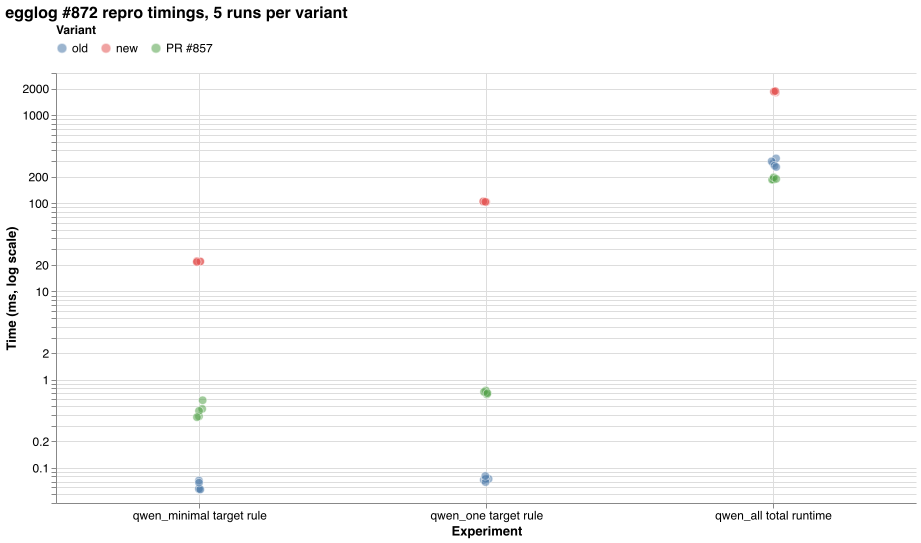
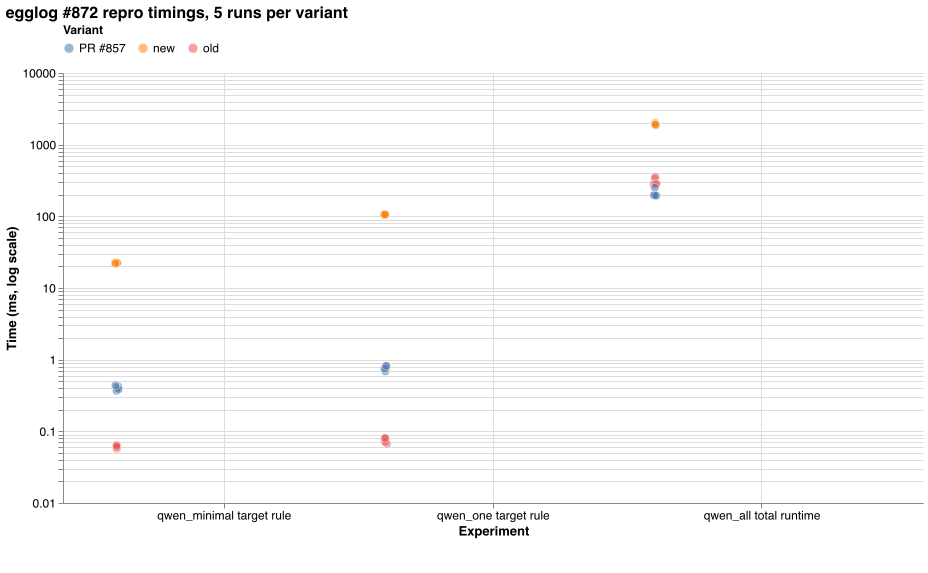
Use scripts timing scatter spec

Changed region(s): [[0.0, 0.0, 1.0, 1.0], [0.152, 0.9429, 0.304, 0.9724]]

diff --git a/README.md b/README.md
@@ -82,10 +82,9 @@ To regenerate the five-run timing scatter plot:
 scripts/render_timing_scatter.sh
 ```
 
-This writes:
+This reads `scripts/timings_scatter.vl.json` and writes:
 
 - `results/timings_scatter.csv`
-- `results/timings_scatter.vl.json`
 - `results/timings_scatter.png`
 
 ## The slow rule